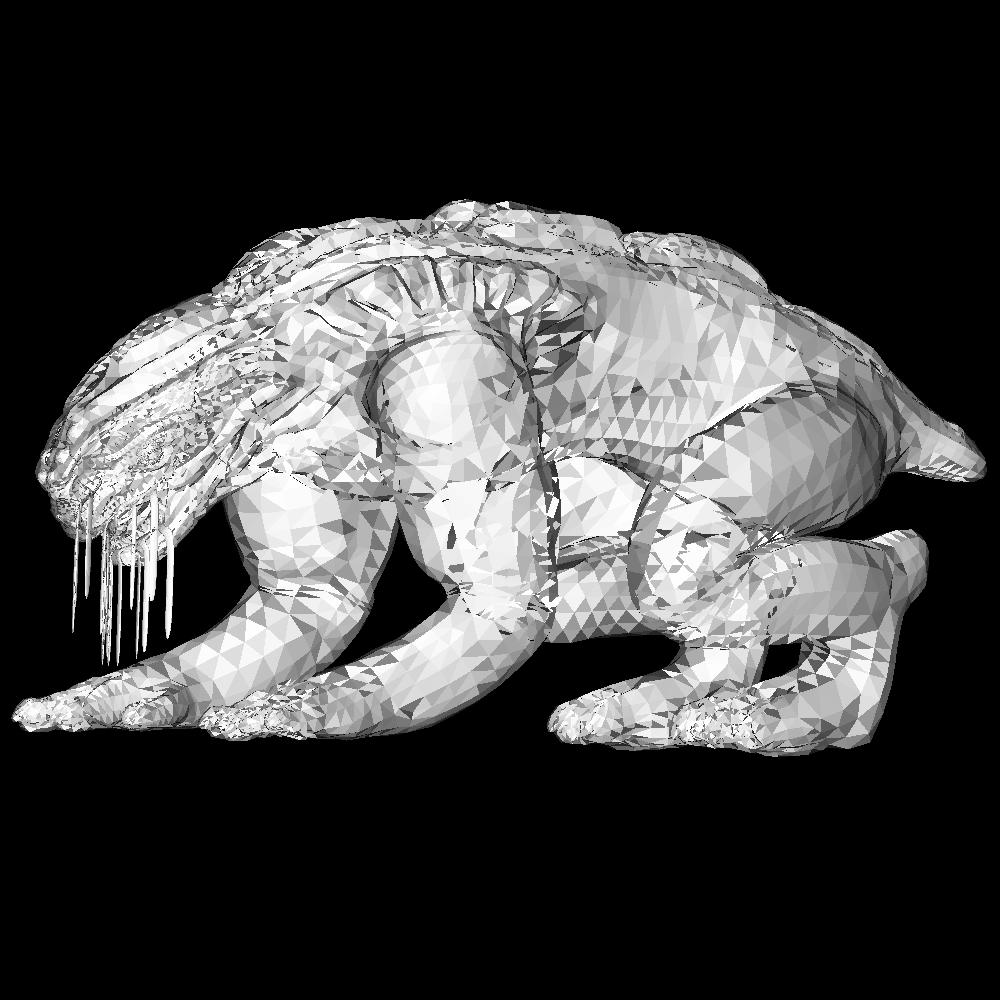
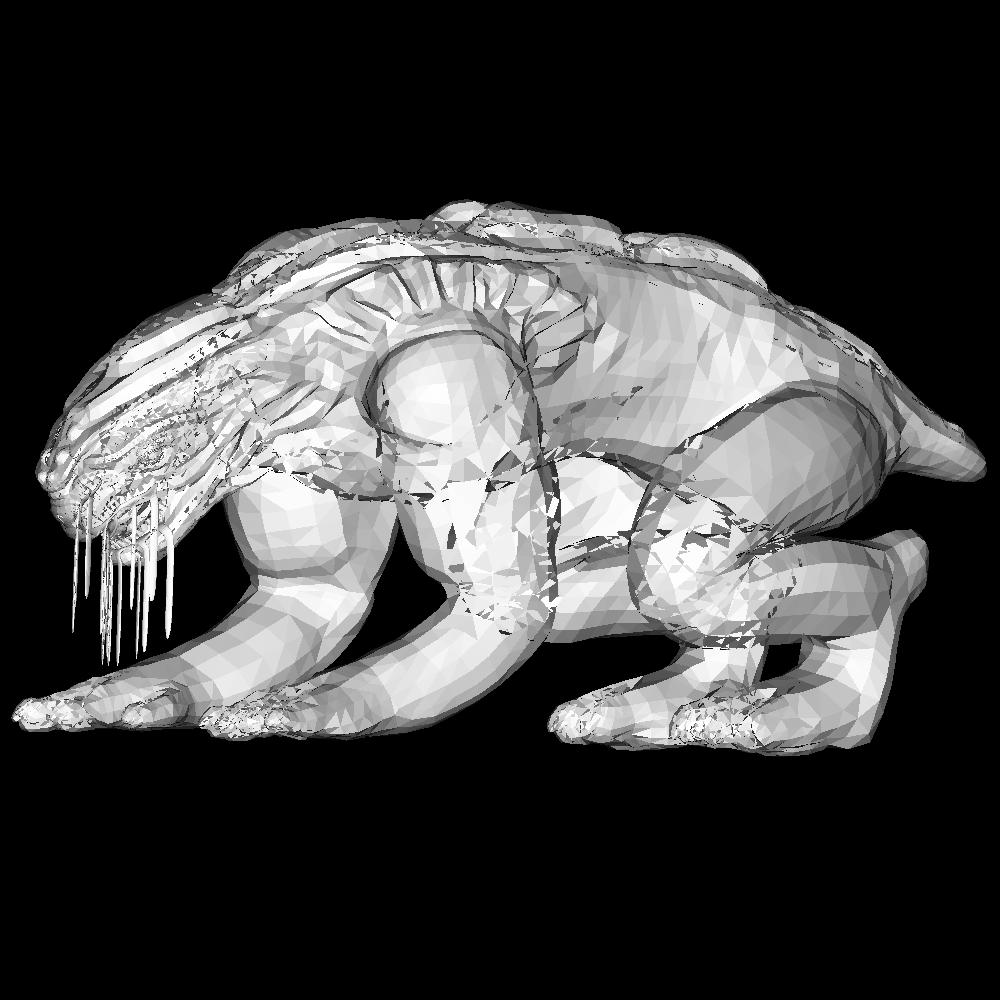
Lab3

Changed region(s): [[0.0, 0.186, 0.93, 0.775], [0.899, 0.403, 0.992, 0.496]]

diff --git a/Task4.py b/Task4.py
@@ -36,24 +36,7 @@ class Model:
                 nums = [int(i) for i in nums]
                 t = (nums[polygonsNumber[0]], nums[polygonsNumber[1]], nums[polygonsNumber[2]])
                 self.poligons.append(t)
-
-        for polygon in self.poligons:
-            cords0 = self.cords[polygon[0] - 1]
-            cords1 = self.cords[polygon[1] - 1]
-            cords2 = self.cords[polygon[2] - 1]
-            vec1 = (cords1[0] - cords0[0], cords1[1] - cords0[1], cords1[2] - cords0[2])
-            vec2 = (cords1[0] - cords2[0], cords1[1] - cords2[1], cords1[2] - cords2[2])
-            i_norm = vec1[1] * vec2[2] - vec1[2] * vec2[1]
-            j_norm = -vec1[0] * vec2[2] - vec1[2] * vec2[0]
-            k_norm = vec1[0] * vec2[1] - vec1[1] * vec2[0]
-            norm = (i_norm, j_norm, k_norm)
-            self.normals.append(norm)
-
-            norm_l = math.sqrt(math.pow(self.light[0], 2) + math.pow(self.light[1], 2) + math.pow(self.light[2], 2))
-            norm_n = math.sqrt(math.pow(norm[0], 2) + math.pow(norm[1], 2) + math.pow(norm[2], 2))
-            cos_light = (norm[0] * self.light[0] + norm[1] * self.light[1] + norm[2] * self.light[2]) / (norm_l * norm_n)
-            self.cos_light.append(cos_light)
-
+        self.calcCos()
         f.close()
 
     def setScale_t(self, ax, ay, u0, v0, proect, t):
@@ -67,6 +50,7 @@ class Model:
             self.changeScale_proect()
         else:
             self.changeScale()
+        self.calcCos()
 
     def setScale(self, ax, ay, u0, v0, proect):
         self.ax = ax
@@ -78,6 +62,29 @@ class Model:
             self.changeScale_proect()
         else:
             self.changeScale()
+
+        self.calcCos()
+
+    def calcCos(self):
+        self.cos_light.clear()
+        self.normals.clear()
+        for polygon in self.poligons:
+            cords0 = self.cords[polygon[0] - 1]
+            cords1 = self.cords[polygon[1] - 1]
+            cords2 = self.cords[polygon[2] - 1]
+            vec1 = (cords1[0] - cords0[0], cords1[1] - cords0[1], cords1[2] - cords0[2])
+            vec2 = (cords1[0] - cords2[0], cords1[1] - cords2[1], cords1[2] - cords2[2])
+            i_norm = vec1[1] * vec2[2] - vec1[2] * vec2[1]
+            j_norm = -vec1[0] * vec2[2] + vec1[2] * vec2[0]
+            k_norm = vec1[0] * vec2[1] - vec1[1] * vec2[0]
+            norm = (i_norm, j_norm, k_norm)
+            self.normals.append(norm)
+
+            norm_l = math.sqrt(math.pow(self.light[0], 2) + math.pow(self.light[1], 2) + math.pow(self.light[2], 2))
+            norm_n = math.sqrt(math.pow(norm[0], 2) + math.pow(norm[1], 2) + math.pow(norm[2], 2))
+            cos_light = (norm[0] * self.light[0] + norm[1] * self.light[1] + norm[2] * self.light[2]) / (
+                        norm_l * norm_n)
+            self.cos_light.append(cos_light)
 
     def changeScale(self):
         self.points.clear()
@@ -161,3 +168,4 @@ class Model:
         self.cords = temp_cords
 
         self.changeScale()
+        self.calcCos()

diff --git a/Task17.py b/Task17.py
@@ -8,10 +8,13 @@ model = Model()
 
 model.load('Test_alien.obj', (0, 3, 6))
 model.setScale(-28, -28, 450, 700, False)
+#model.load('Test_rabbit.obj', (0, 3, 6))
+#model.setScale(-8000, -8000, 500, 900, False)
 poligons = model.getPoligons()
 cos_lights = model.getCos_light()
+points = model.getPoints()
 
-model.rotate(0, 90, 0)
+model.rotate(0, 180, 0)
 
 drawer = Drawer()
 
@@ -26,6 +29,9 @@ print('Percent compl:')
 for polygon in poligons:
     if cos_lights[k] < 0:
         drawer.drawPolygon(model, polygon, image, (int(-255 * cos_lights[k]), int(-255 * cos_lights[k]), int(-255 * cos_lights[k])), True)
+    #drawer.line4(points[polygon[0] - 1], points[polygon[1] - 1], image, (255, 255, 255))
+    #drawer.line4(points[polygon[1] - 1], points[polygon[2] - 1], image, (255, 255, 255))
+    #drawer.line4(points[polygon[2] - 1], points[polygon[0] - 1], image, (255, 255, 255))
     percent_compl = int(k / len(poligons) * 100)
     if percent_compl % 5 == 0 and last_percent != percent_compl:
         print(percent_compl)
@@ -33,3 +39,4 @@ for polygon in poligons:
     k += 1
 
 image.save('Output/Task17_alien.jpg')
+#image.save('Output/Task17_rabbit.jpg')

diff --git a/Task2.py b/Task2.py
@@ -13,7 +13,7 @@ class MyImage:
         for x in range(width):
             for y in range(height):
                 self.image_arr[x, y] = (0, 0, 0)
-                self.z_buffer[x, y] = 10000
+                self.z_buffer[x, y] = -100
 
     def loadImage(self, imageName):
         image = Image.open(imageName)  # Открываем изображение
@@ -31,16 +31,11 @@ class MyImage:
             self.z_buffer[x, y] = z
 
     def getZ(self, x, y):
-        if x < self.height and y < self.width and x >= 0 and y >= 0:
-            return self.z_buffer[x, y]
-        else:
-            return -1
+        return self.z_buffer[x, y]
+
 
     def get(self, x, y):
-        if x < self.height and y < self.width and x >= 0 and y >= 0:
-            return self.image_arr[x, y]
-        else:
-            return -1
+        return self.image_arr[x, y]
 
     def save(self, imageName):
         image = Image.new("RGB", self.size)  # Создаем изображение. L - 8 бит, черно-белое

diff --git a/Task15.py b/Task15.py
@@ -6,8 +6,10 @@ import numpy as np
 
 model = Model()
 
-model.load('Test_alien.obj', (0, 3, 6))
-model.setScale(-28, -28, 450, 700, False)
+#model.load('Test_alien.obj', (0, 3, 6))
+#model.setScale(-28, -28, 450, 700, False)
+model.load('Test_rabbit.obj', (0, 3, 6))
+model.setScale(-8000, -8000, 500, 900, False)
 poligons = model.getPoligons()
 cos_lights = model.getCos_light()
 
@@ -30,4 +32,5 @@ for polygon in poligons:
         last_percent = percent_compl
     k += 1
 
-image.save('Output/Task15_alien.jpg')
+#image.save('Output/Task15_alien.jpg')
+image.save('Output/Task15_rabbit.jpg')

diff --git a/Task3.py b/Task3.py
@@ -111,7 +111,7 @@ class Drawer:
                 if bar_coef[0] > 0 and bar_coef[1] > 0 and bar_coef[2] > 0:
                     if use_z_buffer:
                         z = bar_coef[0]*cords0[2] + bar_coef[1]*cords1[2] + bar_coef[2]*cords2[2]
-                        if image.getZ(x, y) > 0 and z < image.getZ(x, y):
+                        if z > image.getZ(x, y):
                             image.set(x, y, color)
                             image.setZ(x, y, z)
                     else:

diff --git a/Task13.py b/Task13.py
@@ -8,6 +8,8 @@ model = Model()
 
 model.load('Test_alien.obj', (0, 3, 6))
 model.setScale(-28, -28, 450, 700, False)
+#model.load('Test_rabbit.obj', (0, 3, 6))
+#model.setScale(-8000, -8000, 500, 900, False)
 cords = model.getCords()
 poligons = model.getPoligons()
 points = model.getPoints()
@@ -30,3 +32,4 @@ for polygon in poligons:
     k += 1
 
 image.save('Output/Task13-14_alien.jpg')
+#image.save('Output/Task13-14_rabbit.jpg')
